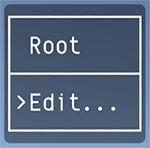
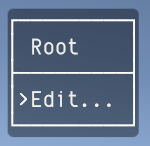
Updates

diff --git a/DebugMenuC.cs b/DebugMenuC.cs
@@ -41,9 +41,8 @@ namespace VARP.DebugMenus
         public int fontSize = 16;
         [BoxGroup("State")]
         public bool isVisible;
+        [BoxGroup("State")]
         public bool isDirty;
-
-
     
         private Stack<MenuState> stack = new Stack<MenuState>(10);
 
@@ -62,6 +61,7 @@ namespace VARP.DebugMenus
         {
             menuText.fontSize = fontSize;
             menuText.autoSizeTextContainer = true;
+            SetVisible(false);
         }
 
         void Update()
@@ -82,7 +82,11 @@ namespace VARP.DebugMenus
                     SendEvent(DebugMenu.EvenTag.Decrement);
                 if (Input.GetKeyDown(KeyCode.D))
                     SendEvent(DebugMenu.EvenTag.Increment);
+                if (Input.GetKeyDown(KeyCode.R))
+                    SendEvent(DebugMenu.EvenTag.Reset);
             }
+            if (isDirty)
+                Render();
         }
 
         // =============================================================================================================

diff --git a/Tango.cs b/Tango.cs
@@ -40,7 +40,7 @@ namespace VARP.DebugMenus
         public const string MagentaBright = "#c19fbe";
         public const string CyanDark = "#07c7ca";
         public const string CyanBright = "#63e9e9";
-        public const string WhiteDark = "d3d7cf";
-        public const string WhiteBright = "eeeeec";
+        public const string WhiteDark = "#d3d7cf";
+        public const string WhiteBright = "#eeeeec";
     }
 }

diff --git a/Demo/DebugMenuDemoC.cs b/Demo/DebugMenuDemoC.cs
@@ -26,14 +26,9 @@ using UnityEngine;
 
 namespace VARP.DebugMenus.Demo
 {
-    public class DebugMenuDemC : MonoBehaviour
+    public class DebugMenuDemoC : MonoBehaviour
     {
-        public enum TrafficLight
-        {
-            Red,
-            Gree,
-            Blue
-        }
+        public enum TrafficLight { Red, Green, Blue }
 
         public TrafficLight enumValue;
         public bool toggleValue;

diff --git a/DebugMenuFloat.cs b/DebugMenuFloat.cs
@@ -68,6 +68,10 @@ namespace VARP.DebugMenus
                     setter((float)(Math.Floor(getter() * floatingPointScale + 0.1f) - 1) / floatingPointScale);
                     Render();
                     break;
+                case EvenTag.Reset:
+                    setter(defaultValue);
+                    Render();
+                    break;
             }
         }
 

diff --git a/DebugMenuEnum.cs b/DebugMenuEnum.cs
@@ -57,6 +57,10 @@ namespace VARP.DebugMenus
                     setter(EnumExtensions.Previous(getter()));
                     Render();
                     break;
+                case EvenTag.Reset:
+                    setter(defaultValue);
+                    Render();
+                    break;
             }
         }
 

diff --git a/DebugMenuInteger.cs b/DebugMenuInteger.cs
@@ -61,6 +61,10 @@ namespace VARP.DebugMenus
                     setter(getter() - increment);
                     Render();
                     break;
+                case EvenTag.Reset:
+                    setter(defaultValue);
+                    Render();
+                    break;
             }
         }
 

diff --git a/DebugMenuToggle.cs b/DebugMenuToggle.cs
@@ -56,6 +56,10 @@ namespace VARP.DebugMenus
                     setter(!getter());
                     Render();
                     break;
+                case EvenTag.Reset:
+                    setter(defaultValue);
+                    Render();
+                    break;
             }
         }
 

diff --git a/DebugMenuItem.cs b/DebugMenuItem.cs
@@ -43,6 +43,7 @@ namespace VARP.DebugMenus
             Decrement, 
             Previous,
             Next,
+            Reset,
             Alternate = 1024
         }
         
